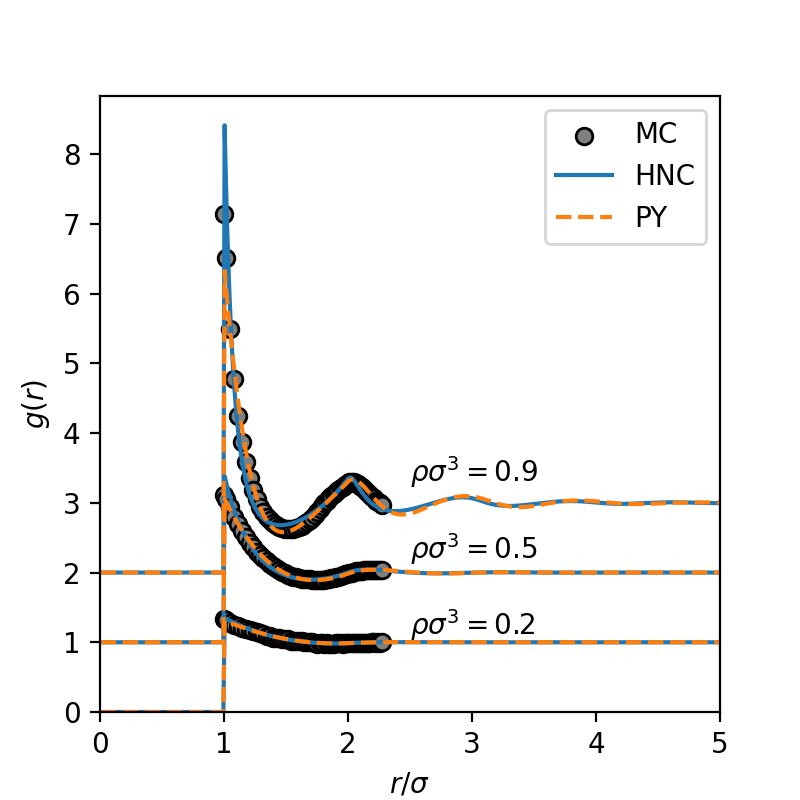
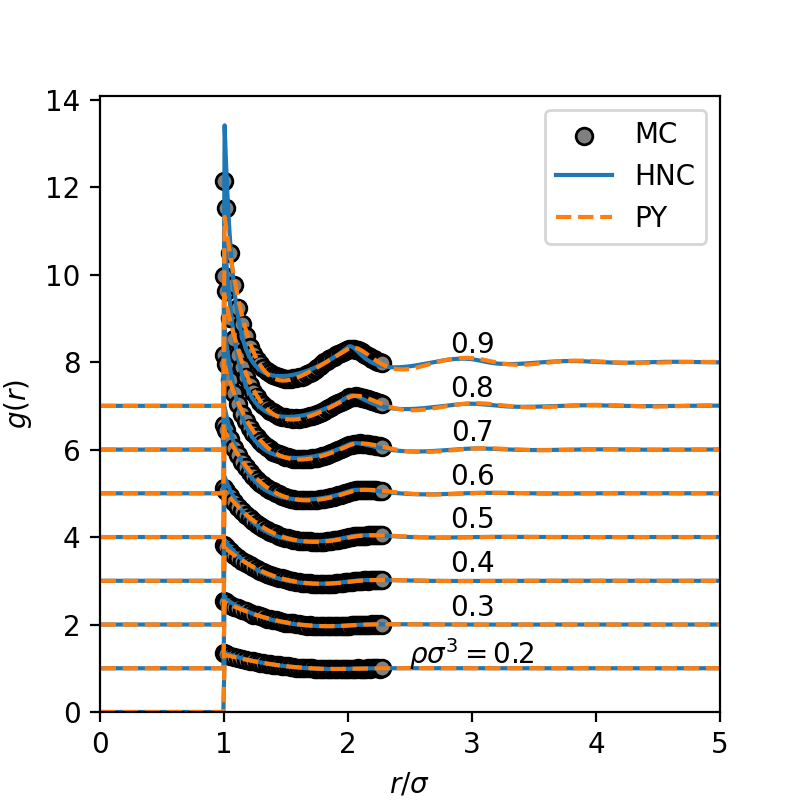
Updating Examples

diff --git a/src/oz.py b/src/oz.py
@@ -35,7 +35,7 @@ class PyOZ:
             b_r = 0.0
         return torch.exp(-beta_u + gamma + b_r) - gamma - 1
 
-    def solve(self, rho: float, kBT: float = 1.0, rmax: float = 5.0, dr: float = 0.01, max_iter: int = 1000, method: str = 'Anderson', mix_depth: int = 5, alpha: float = 0.6, atol: float = 1e-6, logoutput: bool = False) -> Tuple[np.ndarray, np.ndarray]:
+    def solve(self, rho: float, kBT: float = 1.0, rmax: float = 5.0, dr: float = 0.01, max_iter: int = 1000, method: str = 'Anderson', mix_depth: int = 5, alpha: float = 0.6, atol: float = 1e-8, logoutput: bool = False) -> Tuple[np.ndarray, np.ndarray]:
         """
         Solve the Ornstein-Zernike equation for a given radial grid r.
         Returns (r, h_r, c_r).

diff --git a/README.md b/README.md
@@ -26,7 +26,7 @@ Notebook: [HardSpheres.ipynb](https://github.com/elvissoares/PyOZ/blob/main/exam
 
 |![Figure1](https://github.com/elvissoares/PyOZ/blob/main/examples/radialdistributionfunction-hardspheres.png)|![Figure2](https://github.com/elvissoares/PyOZ/blob/main/examples/contactvalue-rdf-hardspheres.png)|
 |:--:|:--:|
-| <b>Fig.1 - The radial distribution function of a pure hard-sphere fluid for three different densities. The symbols represent MC data. </b>| <b>Fig.2 - The contact value of the radial distribution function of a pure hard-sphere fluid as a function of the bulk density. The symbols represent MC data. </b>|
+| <b>Fig.1 - The radial distribution function of a pure hard-sphere fluid for three different densities. The symbols represent MC data from Barker 1971. </b>| <b>Fig.2 - The contact value of the radial distribution function of a pure hard-sphere fluid as a function of the bulk density. The symbols represent MC data from Barker 1971. </b>|
 
 ## Lennard-Jones Fluids 
 